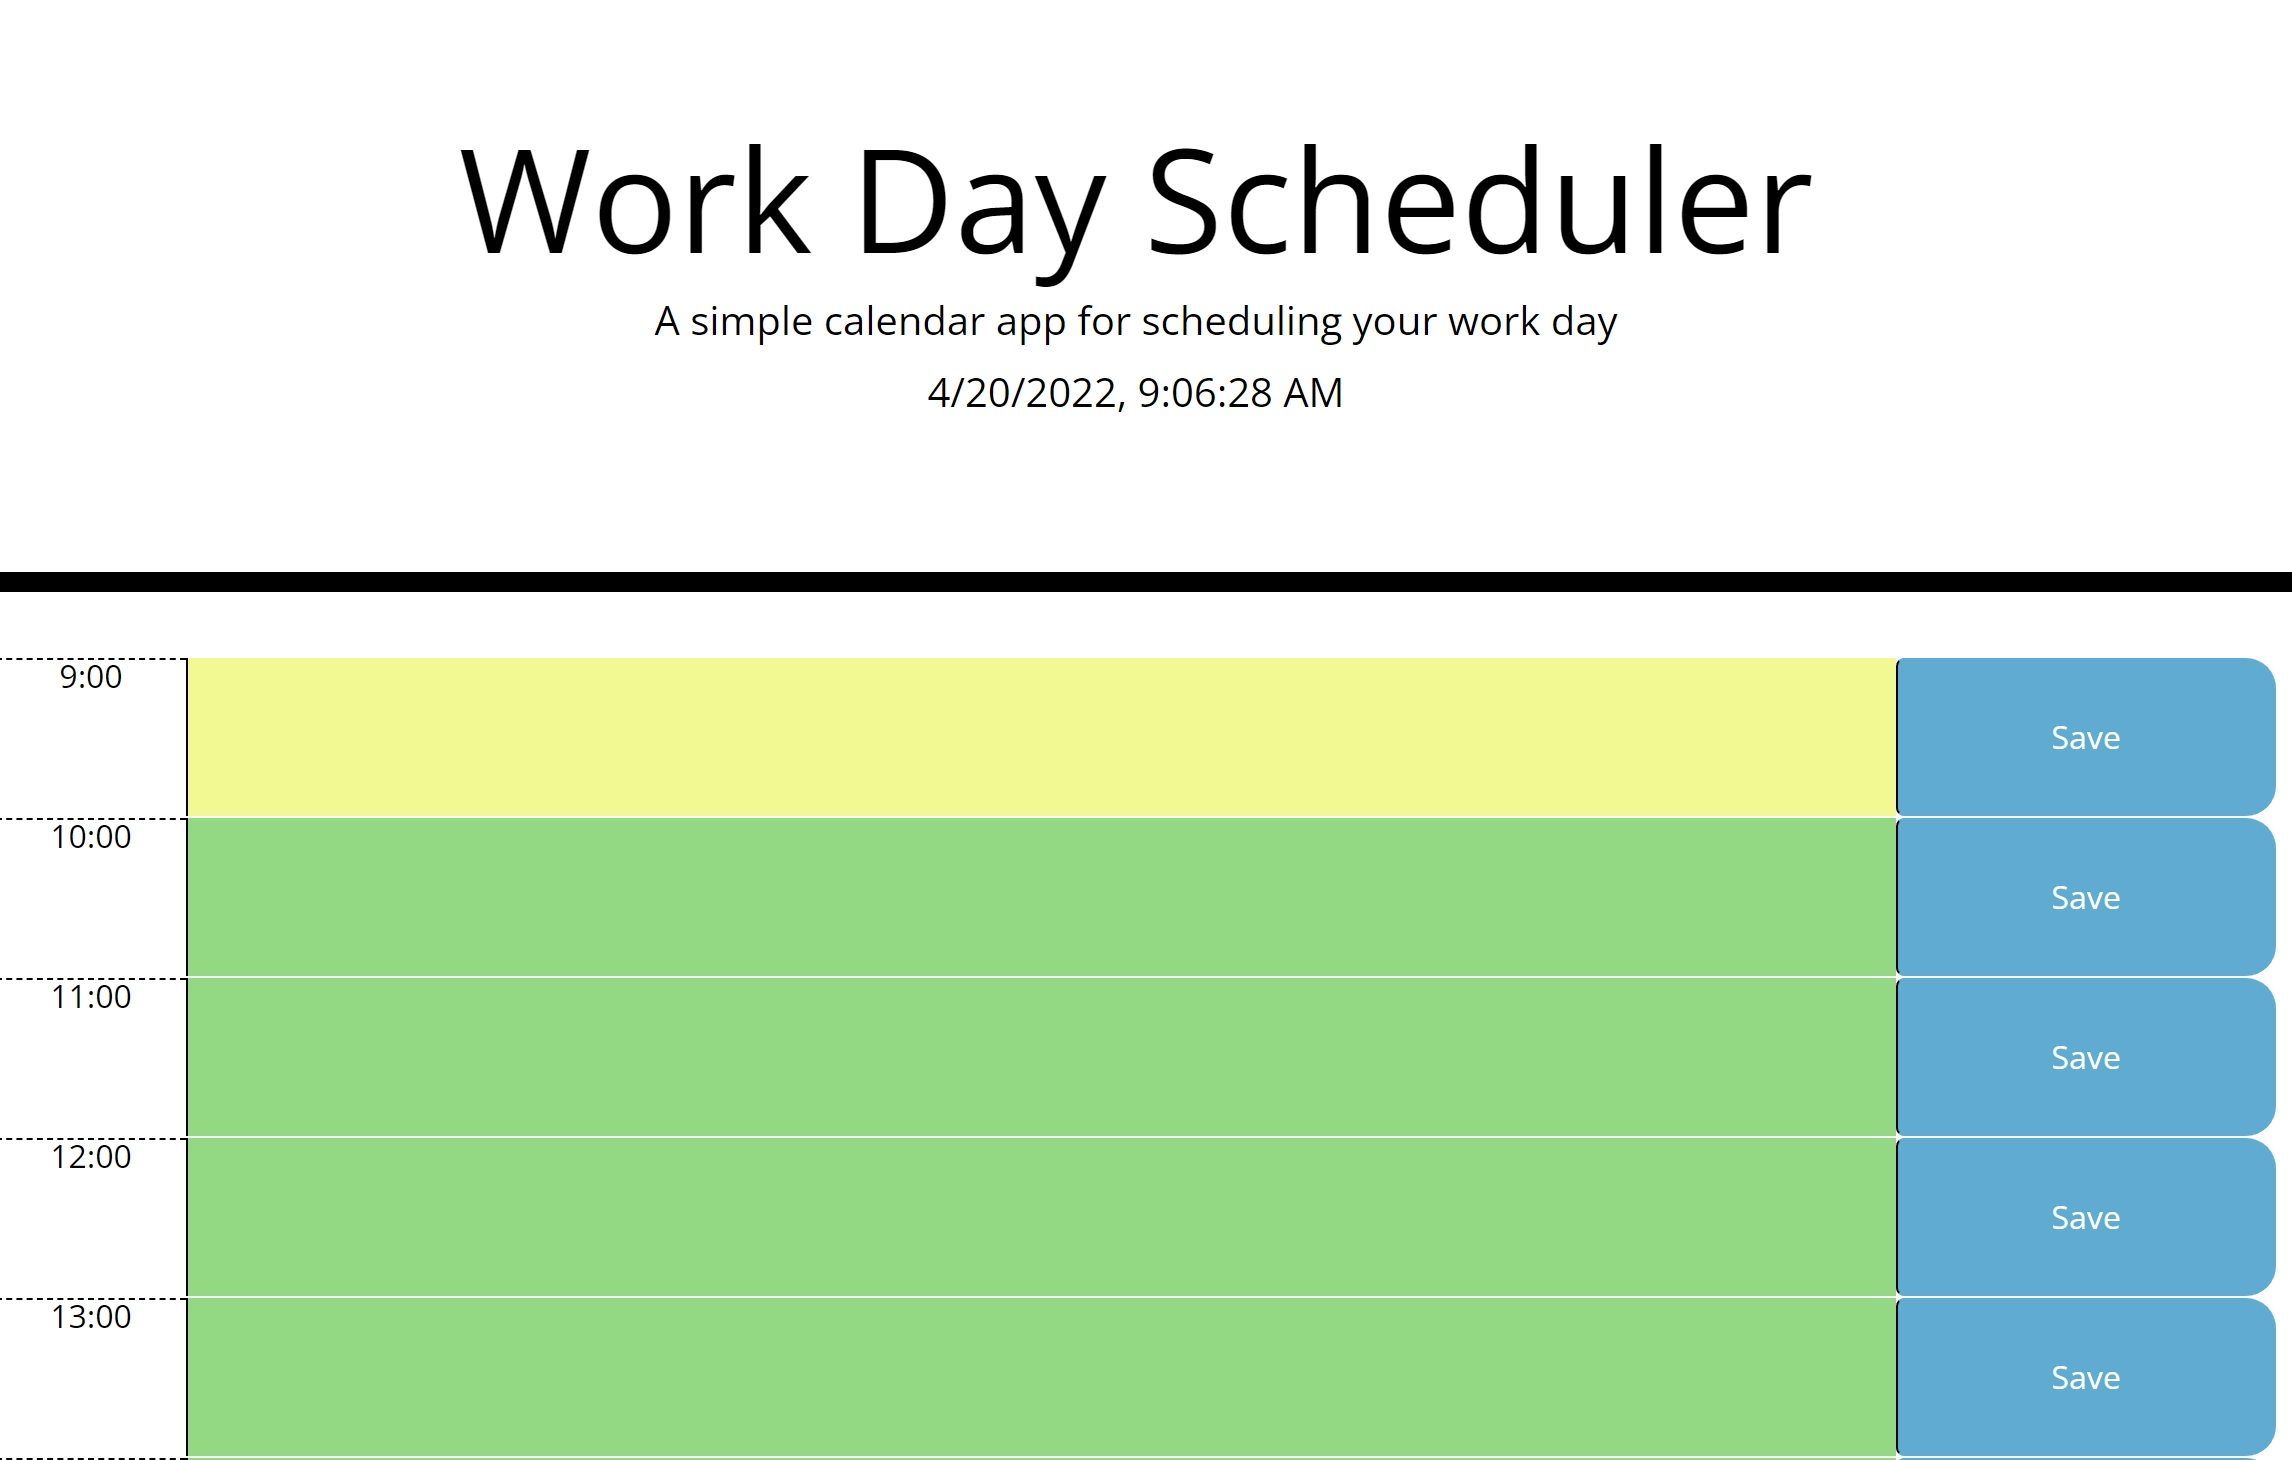
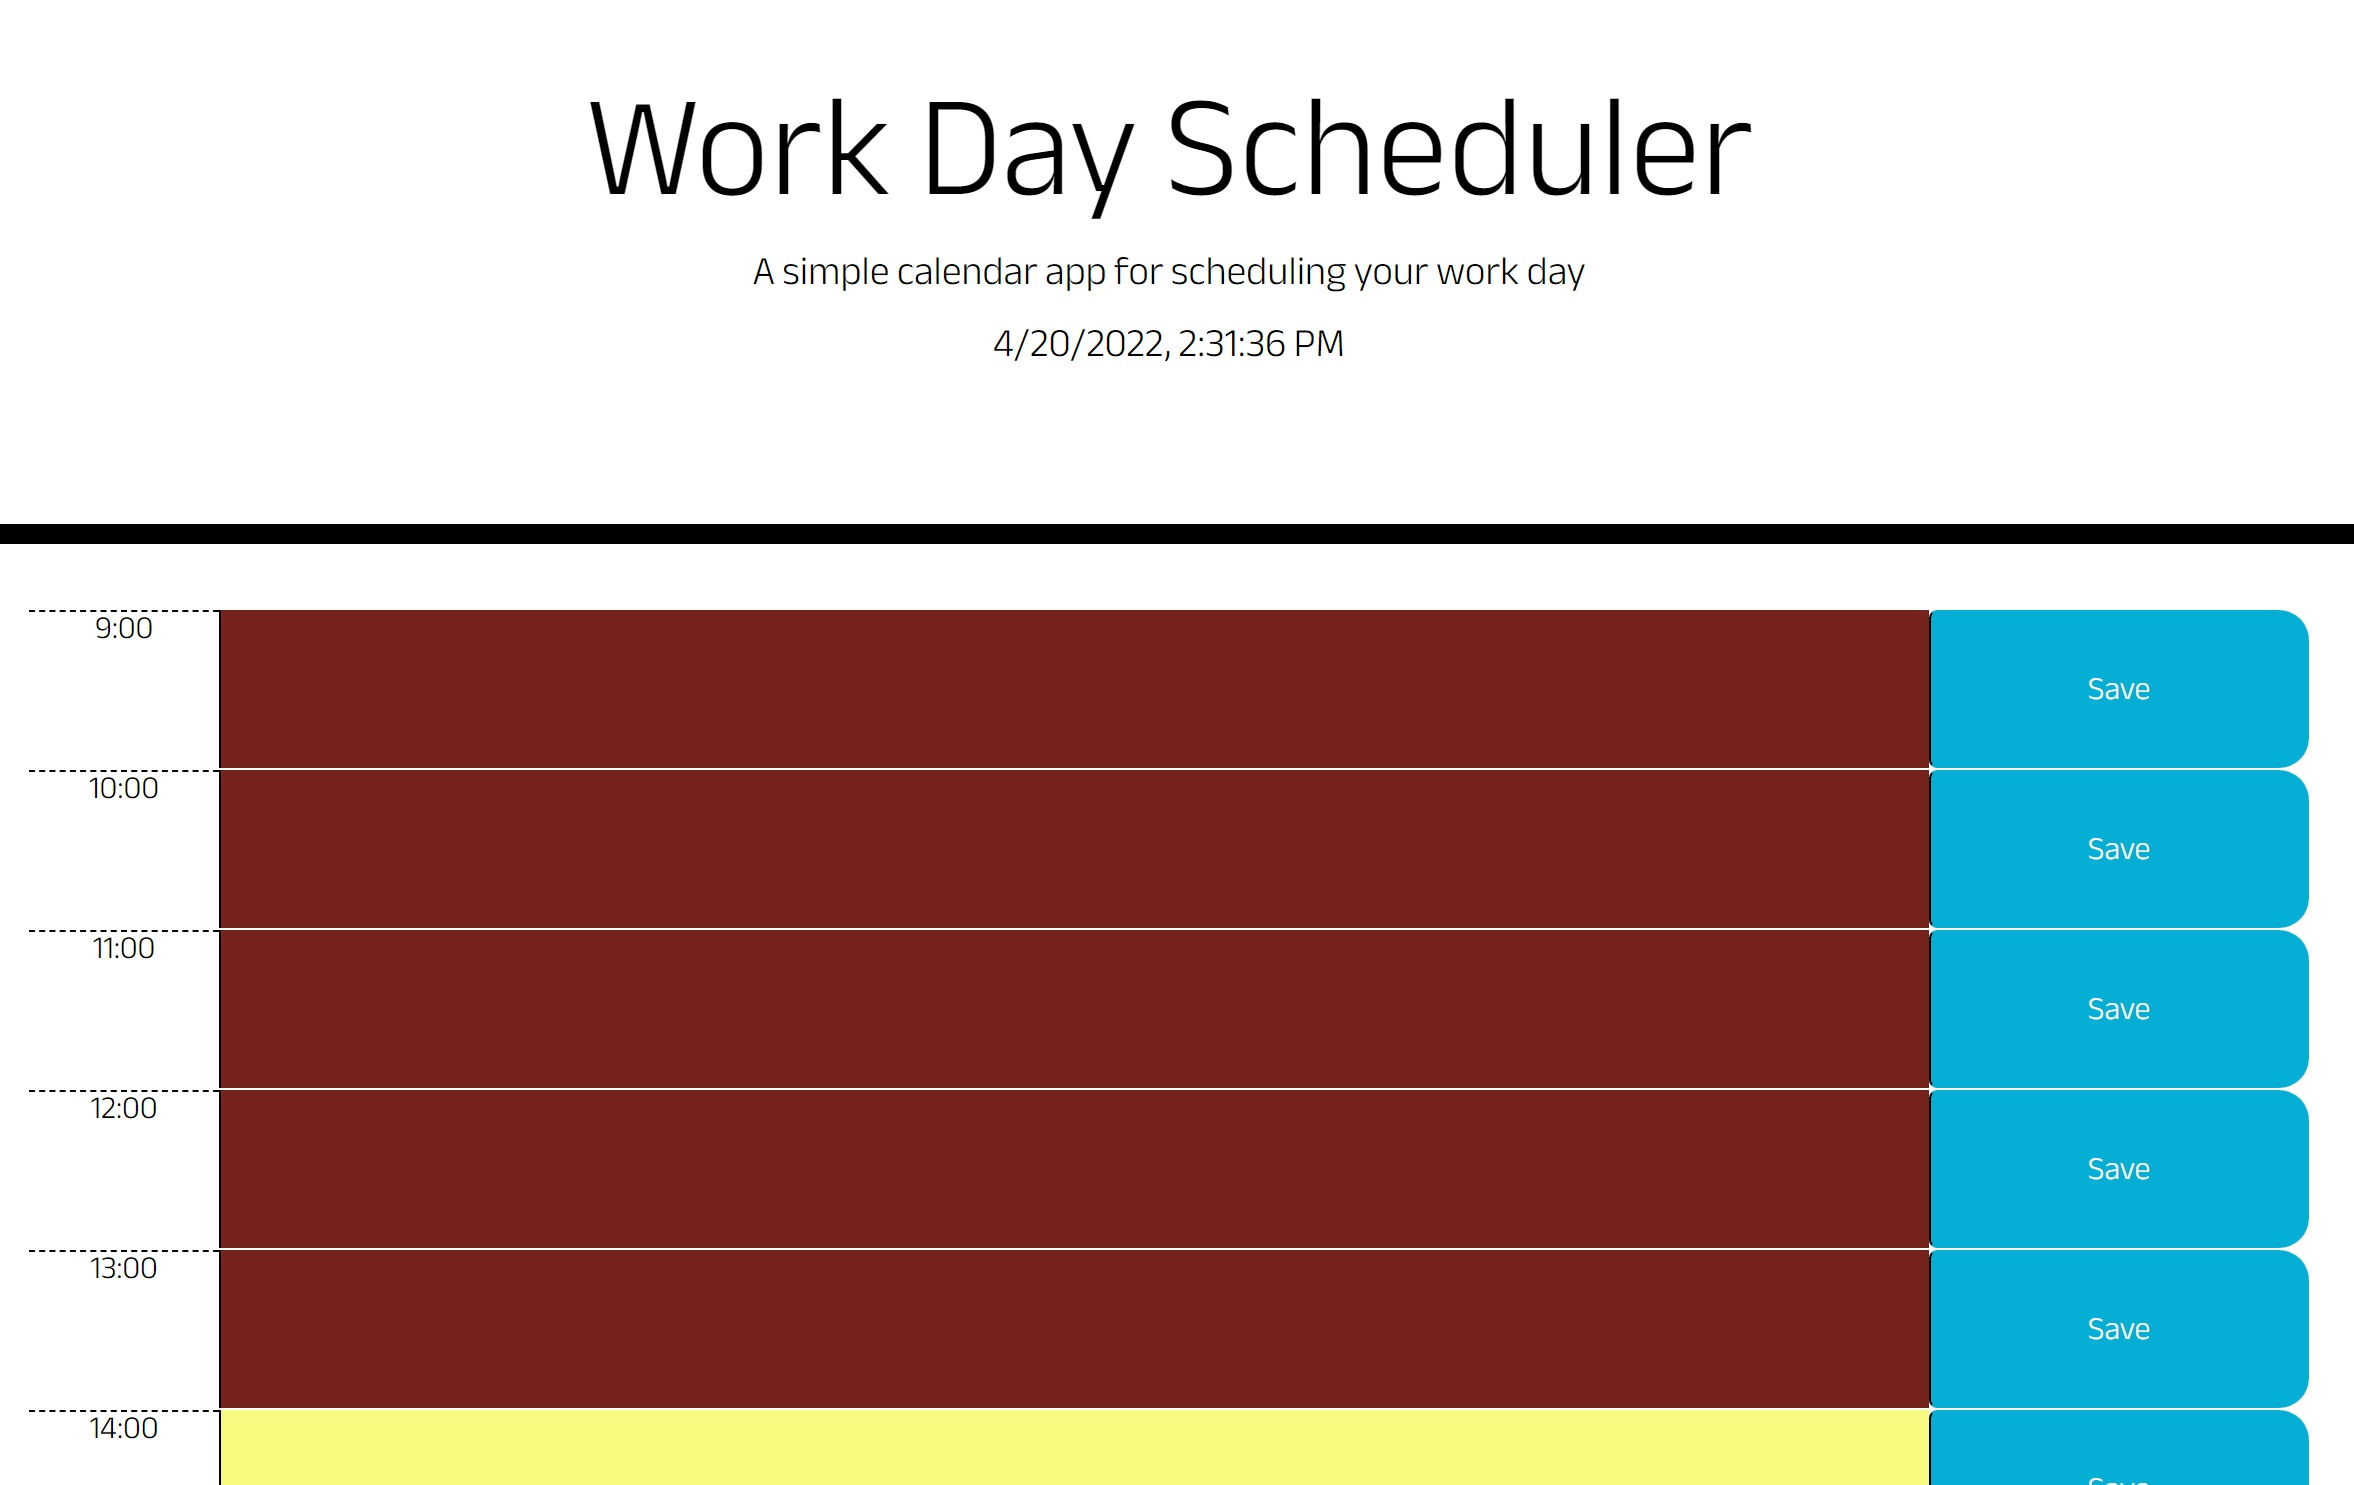
Added font family, updated README demo picture

diff --git a/Assets/css/style.css b/Assets/css/style.css
@@ -1,3 +1,9 @@
+@import url('https://fonts.googleapis.com/css2?family=Anek+Bangla:wght@300&family=Kanit:wght@200;400&display=swap');
+
+* {
+  font-family: 'Anek Bangla', sans-serif;
+}
+
 body {
   font-family: 'Open Sans', sans-serif;
   font-size: 16px;

diff --git a/README.md b/README.md
@@ -8,7 +8,6 @@ This application is a day planner that allows the user to create and log a to-do
 3. Red time block = an hour that is in the past
 ```
 
-
 At any given time, the user can return back to the application and their previous saved input will automatically load once the application is started.
 
 At the top of the page, a live clock, along with the current date is displayed for the user to utilize. 
